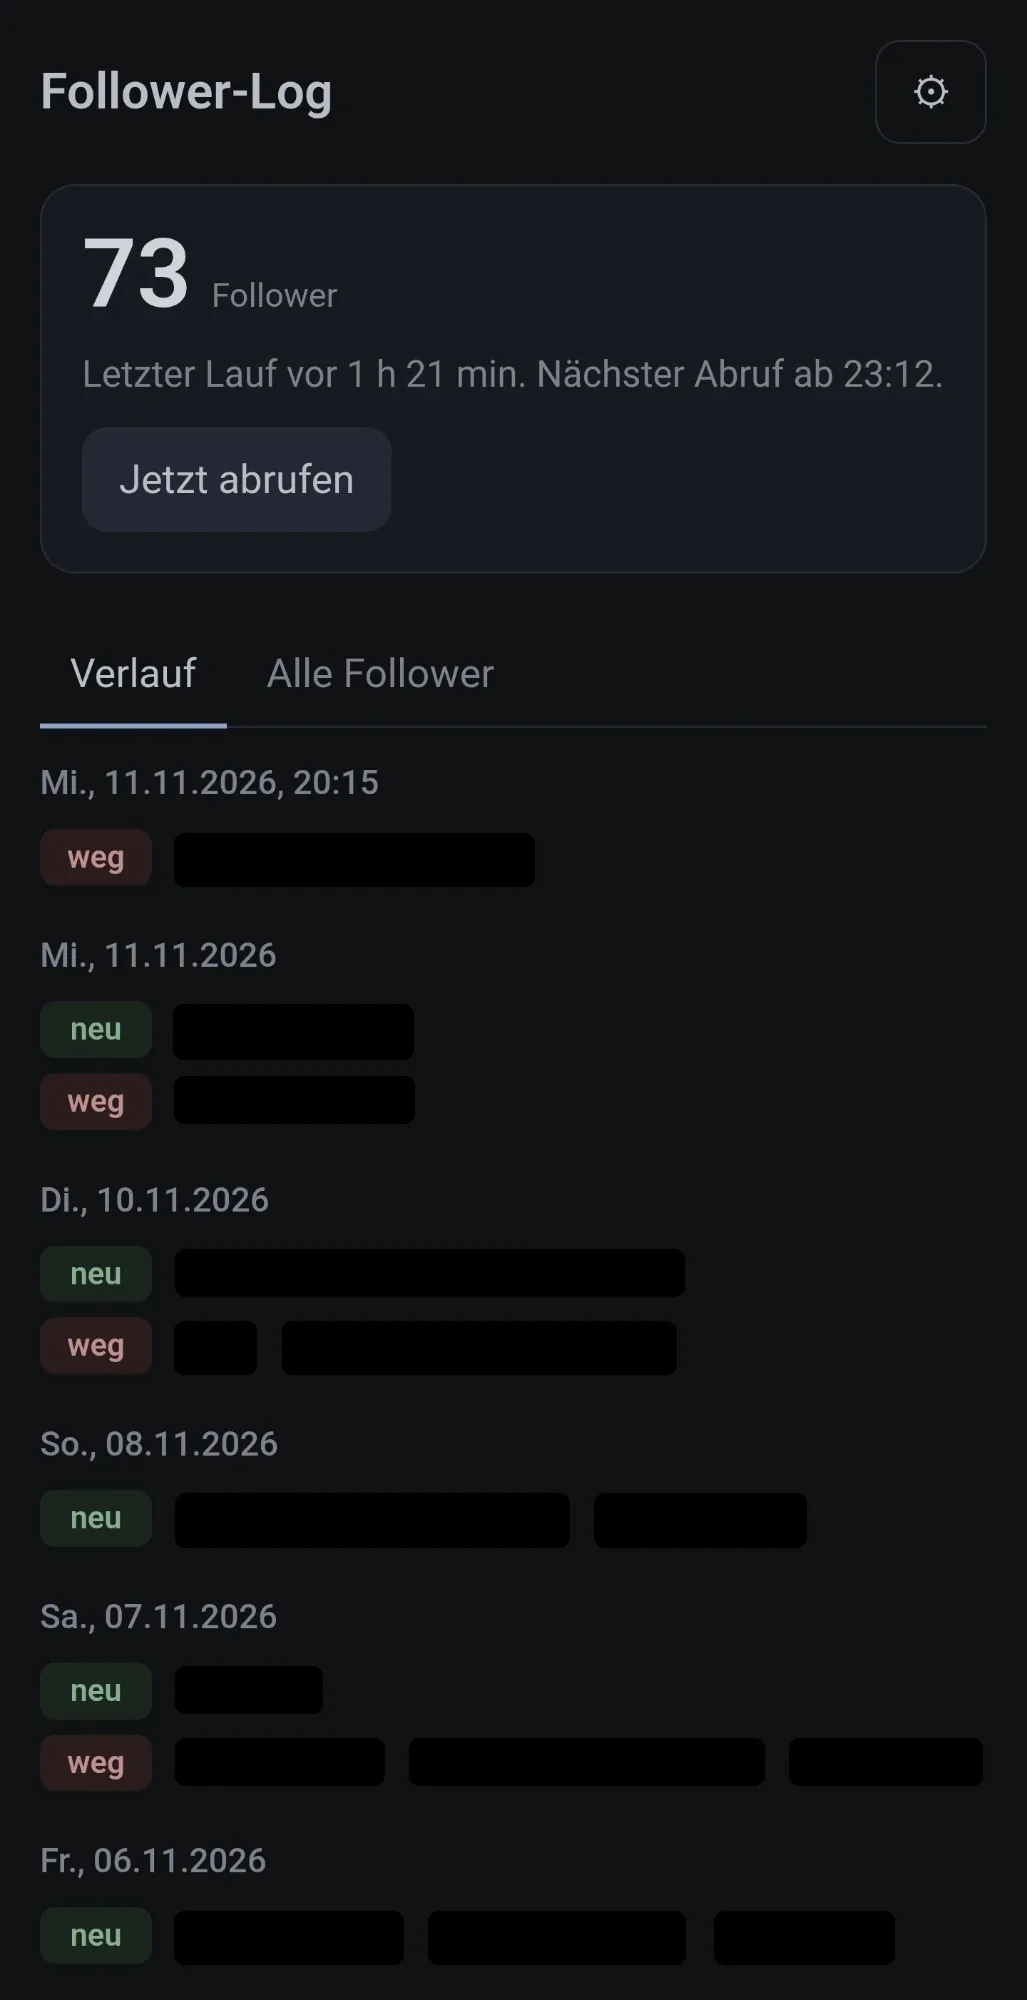
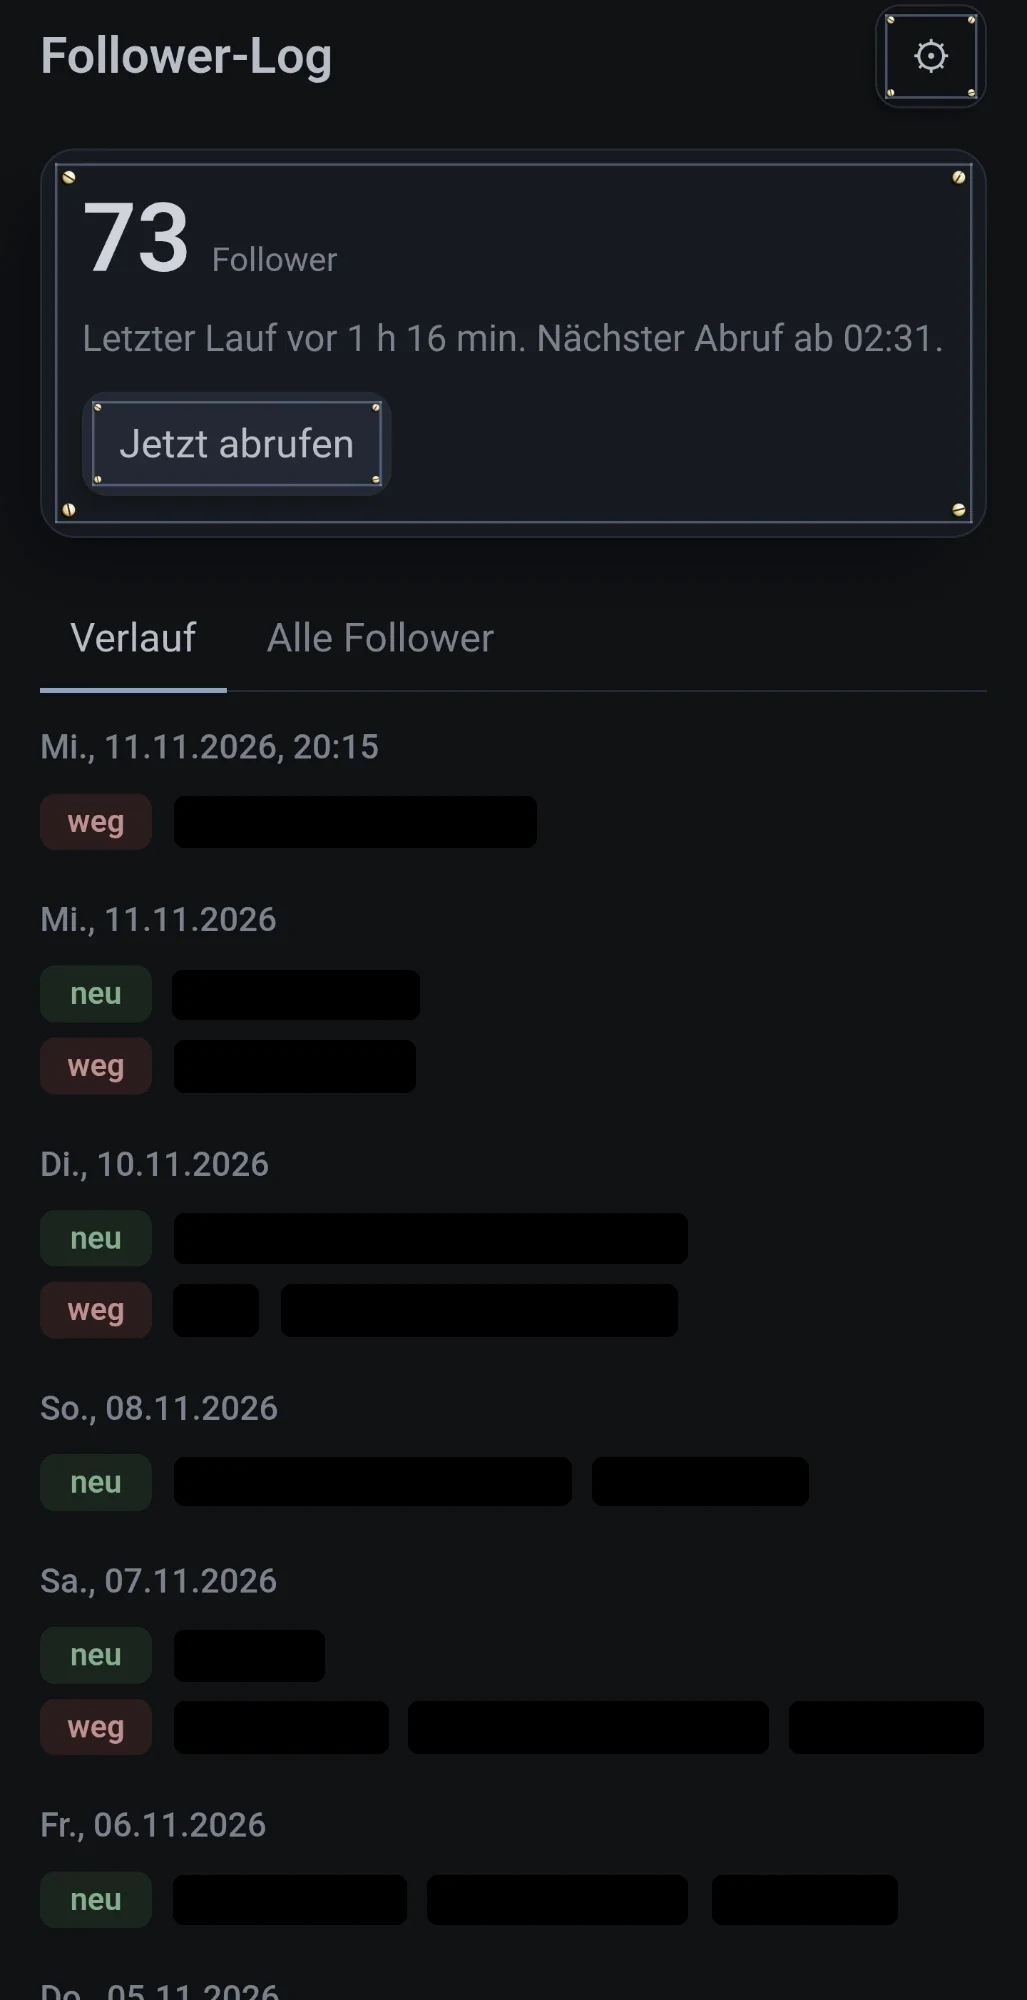
Follower-Log: Handyfoto im neuen Look, Namen geschwärzt

diff --git a/js/guides.js b/js/guides.js
@@ -4507,7 +4507,7 @@ var GUIDES = {
       {
         file: 'follower-log.webp', w: 1027, h: 2000,
         alt: {
-          de: 'Follower-Log auf dem Handy im Dunkelmodus: oben die Zahl 73 Follower, darunter „Letzter Lauf vor 1 h 21 min. Nächster Abruf ab 23:12.“ und der Knopf „Jetzt abrufen“. Im Verlauf stehen die Tage mit grünen Marken „neu“ und roten Marken „weg“, die Namen sind geschwärzt.',
+          de: 'Follower-Log auf dem Handy im Dunkelmodus: oben die Zahl 73 Follower, darunter „Letzter Lauf vor 1 h 16 min. Nächster Abruf ab 02:31.“ und der Knopf „Jetzt abrufen“. Im Verlauf stehen die Tage mit grünen Marken „neu“ und roten Marken „weg“, die Namen sind geschwärzt.',
           en: 'Follower-Log on a phone in dark mode: at the top the number 73 followers, below it the time of the last run, when the next check is possible, and the button “Jetzt abrufen”. The history lists the days with green “neu” (new) and red “weg” (gone) labels, the names are blacked out.',
           es: 'Follower-Log en el móvil en modo oscuro: arriba la cifra de 73 seguidores, debajo la hora de la última ejecución, a partir de cuándo se puede volver a consultar y el botón „Jetzt abrufen“. El historial muestra los días con etiquetas verdes „neu“ (nuevo) y rojas „weg“ (se fue), los nombres están tachados en negro.',
           fr: 'Follower-Log sur téléphone en mode sombre : en haut le nombre de 73 abonnés, en dessous l’heure de la dernière exécution, le moment de la prochaine vérification possible et le bouton « Jetzt abrufen ». L’historique montre les jours avec des étiquettes vertes « neu » (nouveau) et rouges « weg » (parti), les noms sont noircis.',

diff --git a/werkstatt.html b/werkstatt.html
@@ -103,7 +103,7 @@
 
 <script src="./js/i18n.js?v=2026-11-12"></script>
 <script src="./js/news.js?v=2026-11-12"></script>
-<script src="./js/guides.js?v=2026-11-12b"></script>
+<script src="./js/guides.js?v=2026-11-12c"></script>
 <script src="./js/dates.js?v=2026-09-14"></script>
 <script src="./js/header.js?v=2026-11-03"></script>
 <script src="./js/werkstatt.js?v=2026-11-11c"></script>
